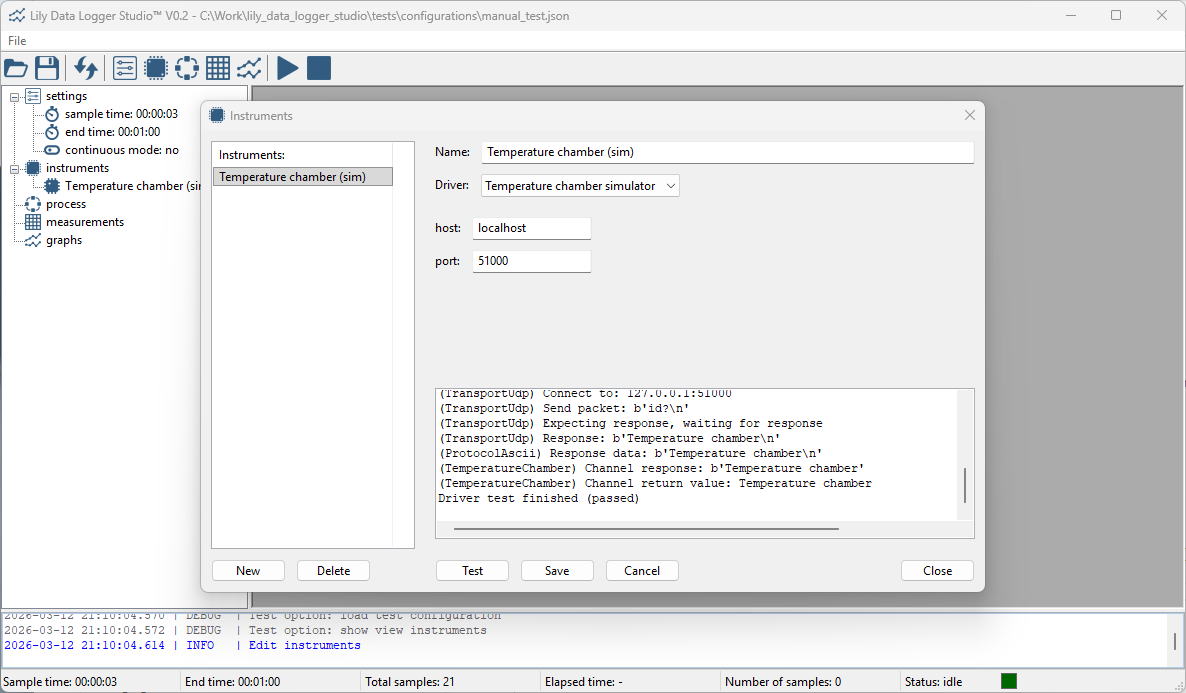
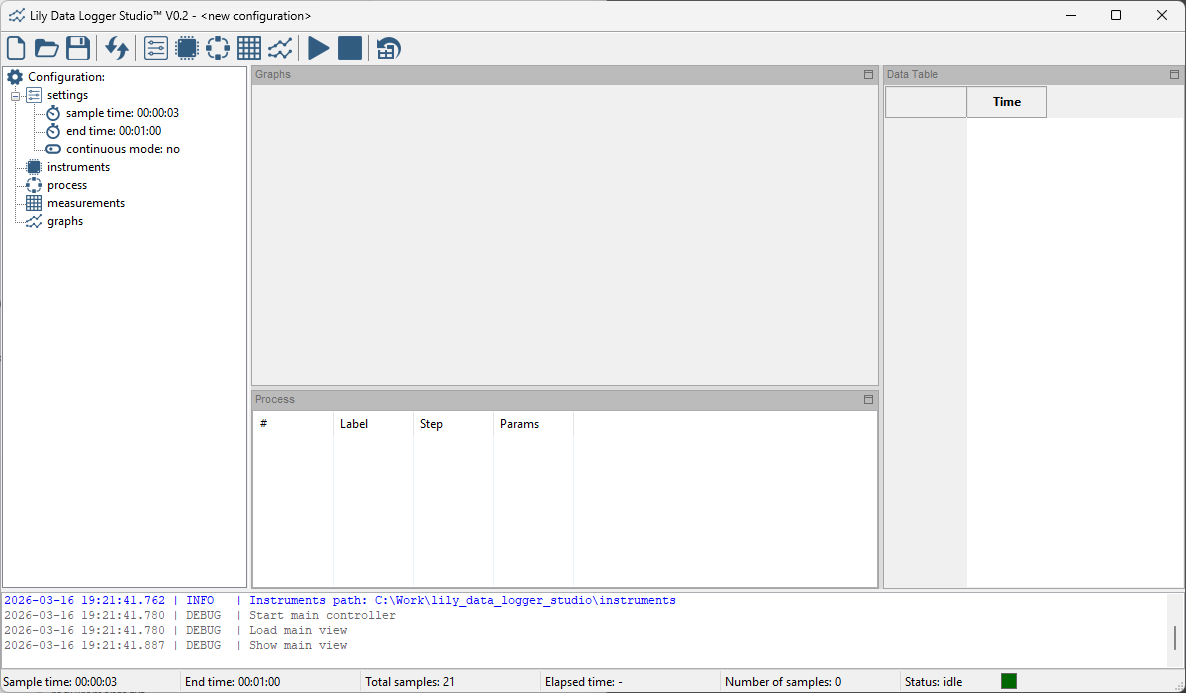
updated screenshot

diff --git a/readme.md b/readme.md
@@ -27,7 +27,6 @@ Release 1.0:
 * Show measurements in one or more graphs
 * Write mearurement to a CSV file
 * Show live updates on the process
-* Multiple Document Interface (MDI) is not available on Ubuntu. Change to AUI (dockable windows)
 
 Issues or feature requests can be submitted in the issue tracker: https://github.com/LilyTronics/lily_data_logger_studio/issues
 
@@ -61,4 +60,3 @@ This way any instrument can be integrated with the application even after instal
 
 This software is provided as is. LilyTronics is not accepting any liabilites for damages that may be
 caused by this software.
-
